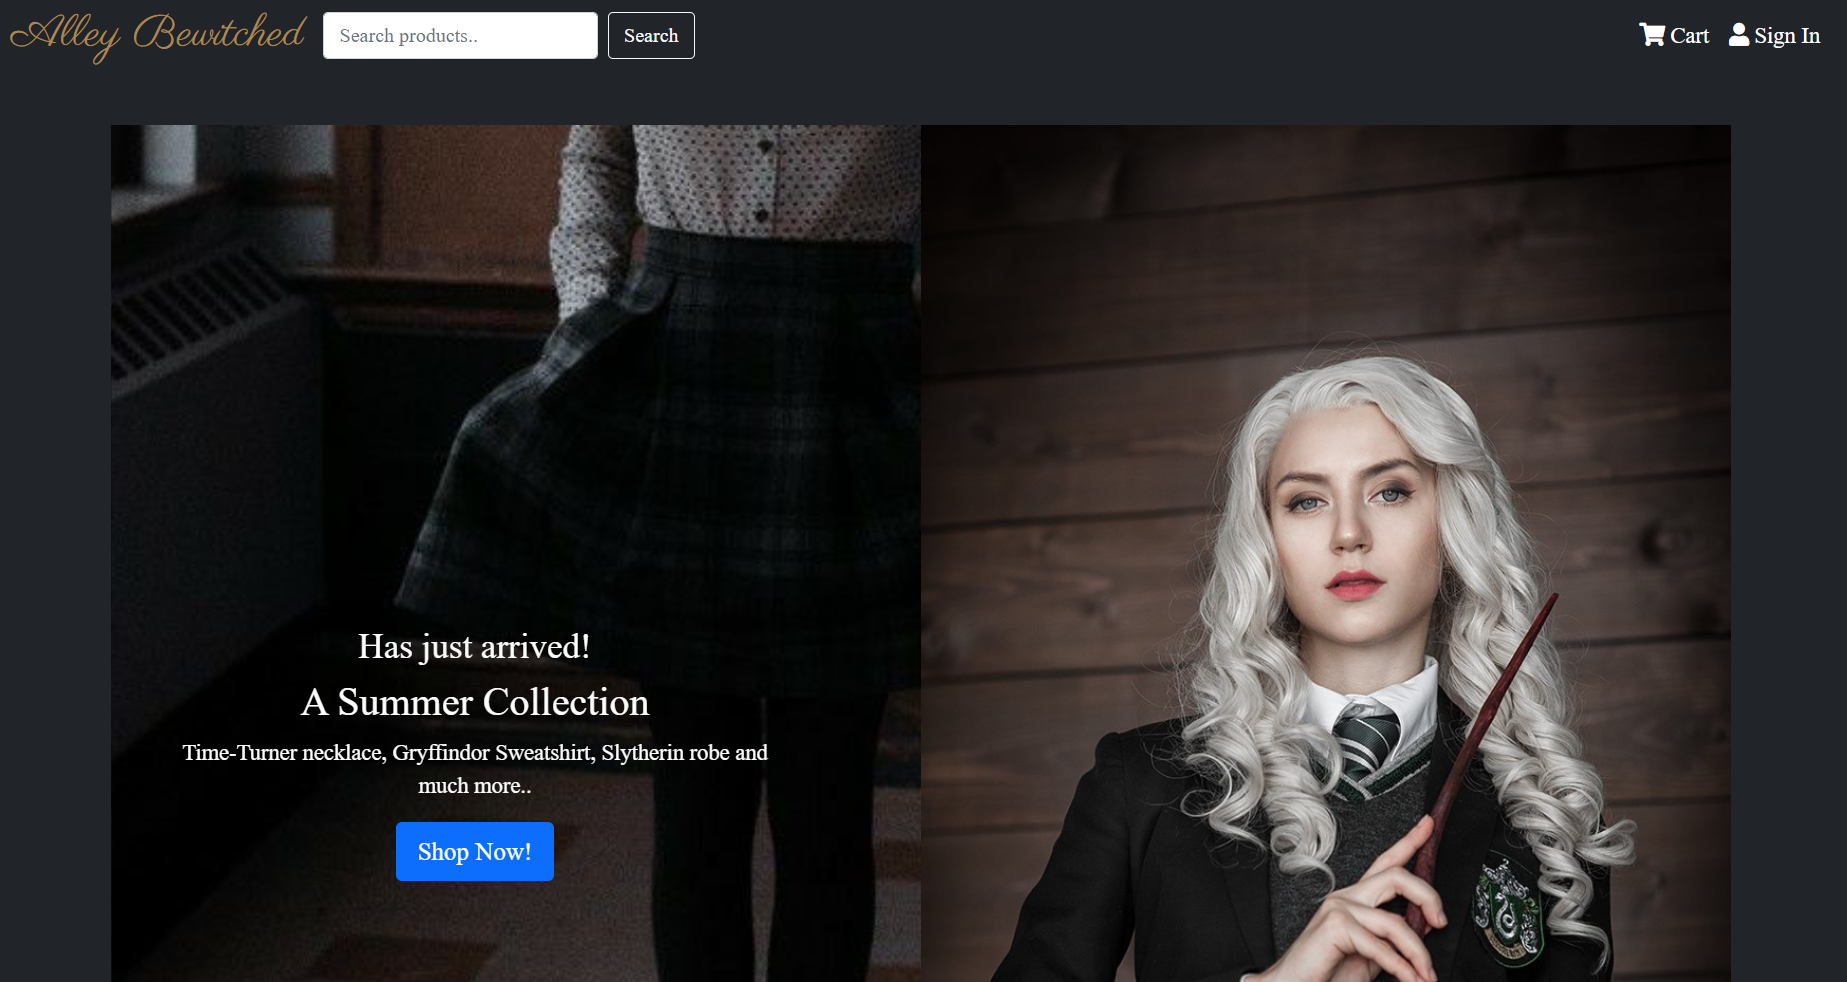
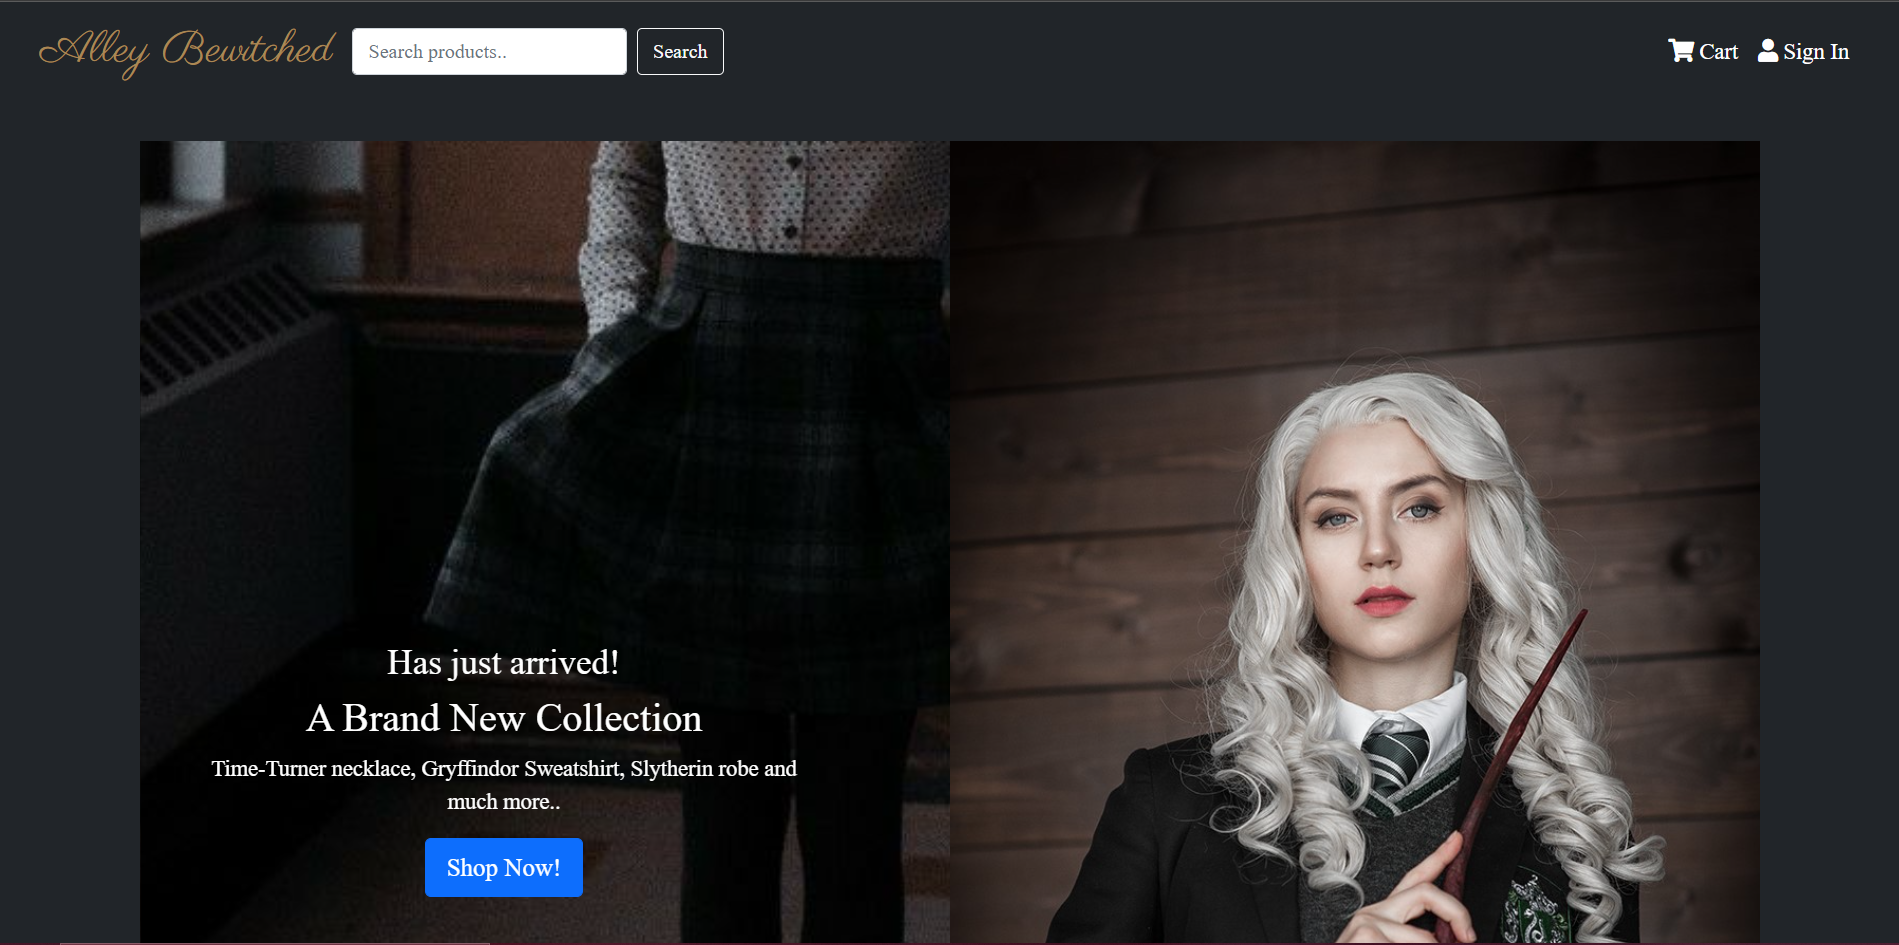
changed font and background photo

diff --git a/src/pages/single-pages/single-pages.jsx b/src/pages/single-pages/single-pages.jsx
@@ -31,7 +31,7 @@ const singlePages = ({ match }) => {
           <Col lg={12}>
             <Carousel
               pause="hover"
-              className="d-flex w-75"
+              className="d-flex"
               indicators={false}
               controls={images.length > 1}
             >
@@ -43,8 +43,6 @@ const singlePages = ({ match }) => {
               {resources.youtubelink && (
                 <Carousel.Item>
                   <iframe
-                    width="100%"
-                    height={500}
                     src={resources.youtubelink}
                     title="YouTube video player"
                     frameBorder="0"
@@ -140,7 +138,9 @@ const singlePages = ({ match }) => {
   } else {
     return (
       <div id="singlepage" className="dark-bg mt-5 text-light text-center">
-        <h1>404 Not Found. Page doesn't exist {":("}</h1>
+        <h1 className="text-center">
+          404 Not Found. Page doesn't exist {":("}
+        </h1>
       </div>
     );
   }

diff --git a/src/assets/Data/single-page-details.js b/src/assets/Data/single-page-details.js
@@ -41,7 +41,7 @@ export const projectDetails = {
     description:
       "YoHello! is a social media website built with php and javascript.",
     brief:
-      "YoHello! is a project I built for learning experience. You can post pictures, your thoughts, share youtube links, make friends, message friends etc. It has all the necessary functionalities of a social network. The hardest part was the design itself. I learned how powerful PHP is as i continued working with it.",
+      "YoHello! is a social networking website where you can post pictures, your thoughts, share youtube links, make friends, message friends etc. The hardest part of the project was the design itself. I learned how powerful PHP is as I continued working with it.",
     techs: ["HTML5", "CSS", "Bootstrap", "Javascript", "PHP", "MySQL"],
     resources: {
       hosted: "http://yohello.atwebpages.com",

diff --git a/src/pages/home-page/homepage.scss b/src/pages/home-page/homepage.scss
@@ -1,7 +1,7 @@
 
 .homepage{
   font-family: 'Merriweather', serif;
-  background-image: linear-gradient(rgba(0, 0, 0, 0.3), rgba(0, 0, 0, 0.3)),url("../../assets/images/aot.jpg");
+  background-image: linear-gradient(rgba(0, 0, 0, 0.7), rgba(0, 0, 0, 0.7)),url("../../assets/images/firewatch-sd.jpg");
   background-attachment: fixed;
   background-position: center;
   background-repeat: no-repeat;
@@ -30,9 +30,10 @@
   }
 
   .card{
-    opacity: 90%;
+    opacity: 0.9;
+
     &:hover{
-      opacity: 100%;
+      opacity: 1;
     }
   }
 }
@@ -48,9 +49,14 @@
       font-size: 1.5rem
     }
     h3,p,h5{
-      font-size: 1rem;
+      font-size: 1.3rem;
     }
   }
+
+  .work-title{
+      font-size: 3rem!important;
+    }
+
   #threed{
     padding-top: 15%;
     justify-content: center;

diff --git a/src/components/Skills.jsx b/src/components/Skills.jsx
@@ -19,8 +19,8 @@ const Skills = ({ type }) => {
     return (
       <>
         {skills.map((skill, index) => (
-          <FadeRight>
-            <p className="skill-name" key={index}>
+          <FadeRight key={index}>
+            <p className="skill-name">
               {skill}
               <span className="percent">{skillpercent[index]}%</span>
             </p>
@@ -33,8 +33,8 @@ const Skills = ({ type }) => {
     return (
       <>
         {softskills.map((skill, index) => (
-          <FadeRight>
-            <p className="skill-name" key={index}>
+          <FadeRight key={index}>
+            <p className="skill-name" >
               {skill}
               <span className="percent">{softskillpercent[index]}%</span>
             </p>

diff --git a/src/pages/single-pages/single-pages.scss b/src/pages/single-pages/single-pages.scss
@@ -11,6 +11,7 @@
         color: #8a8a8a;
         font-size: 1.2rem;
         width: 75%;
+        text-align: left;
     }
 
     li{
@@ -34,6 +35,15 @@
         color: #FAF1E6;
     }
 
+    .carousel{
+        width: 75%;
+    }
+
+    iframe{
+        width: 100%;
+        height: 500px;
+    }
+
 .carousel-control-prev, 
  .carousel-control-next{
     top: 50%;
@@ -45,4 +55,19 @@
   filter: invert(1);
 }
 }
+
+@media only screen and (max-device-width: 768px){
+    #singlepage .carousel{
+        width: 100%;
+    }
+
+    #singlepage iframe{
+        height: 384px;
+    }
+
+    #singlepage p{
+        width: 100%;
+    }
+}
+
 

diff --git a/public/index.html b/public/index.html
@@ -5,10 +5,7 @@
     <link rel="icon" href="%PUBLIC_URL%/favicon.ico" />
     <meta name="viewport" content="width=device-width, initial-scale=1.0" />
     <meta name="theme-color" content="#000000" />
-    <meta
-      name="description"
-      content="Web site created using create-react-app"
-    />
+    <meta name="description" content="Portfolio website" />
     <link rel="apple-touch-icon" href="%PUBLIC_URL%/logo192.png" />
     <link rel="manifest" href="%PUBLIC_URL%/manifest.json" />
     <link rel="preconnect" href="https://fonts.gstatic.com" />

diff --git a/src/pages/about-page/about-page.jsx b/src/pages/about-page/about-page.jsx
@@ -8,7 +8,7 @@ import "./about-page.scss";
 
 const AboutPage = () => (
   <div id="about" className="dark-bg">
-    <h1>About Page</h1>
+    <h1 className="work-title">About Page</h1>
     <Row>
       <Col lg={4} className="pb-5">
         <Image src={prof} alt="profile-pic" width="50%" rounded />

diff --git a/src/pages/about-page/about-page.scss b/src/pages/about-page/about-page.scss
@@ -13,7 +13,7 @@
         margin-top: 4rem;
       }
       .about-me{
-          color: #F8EDED;
+          color: #8a8a8a;
           font-size: 1.25rem;
           text-align: left;
       }
